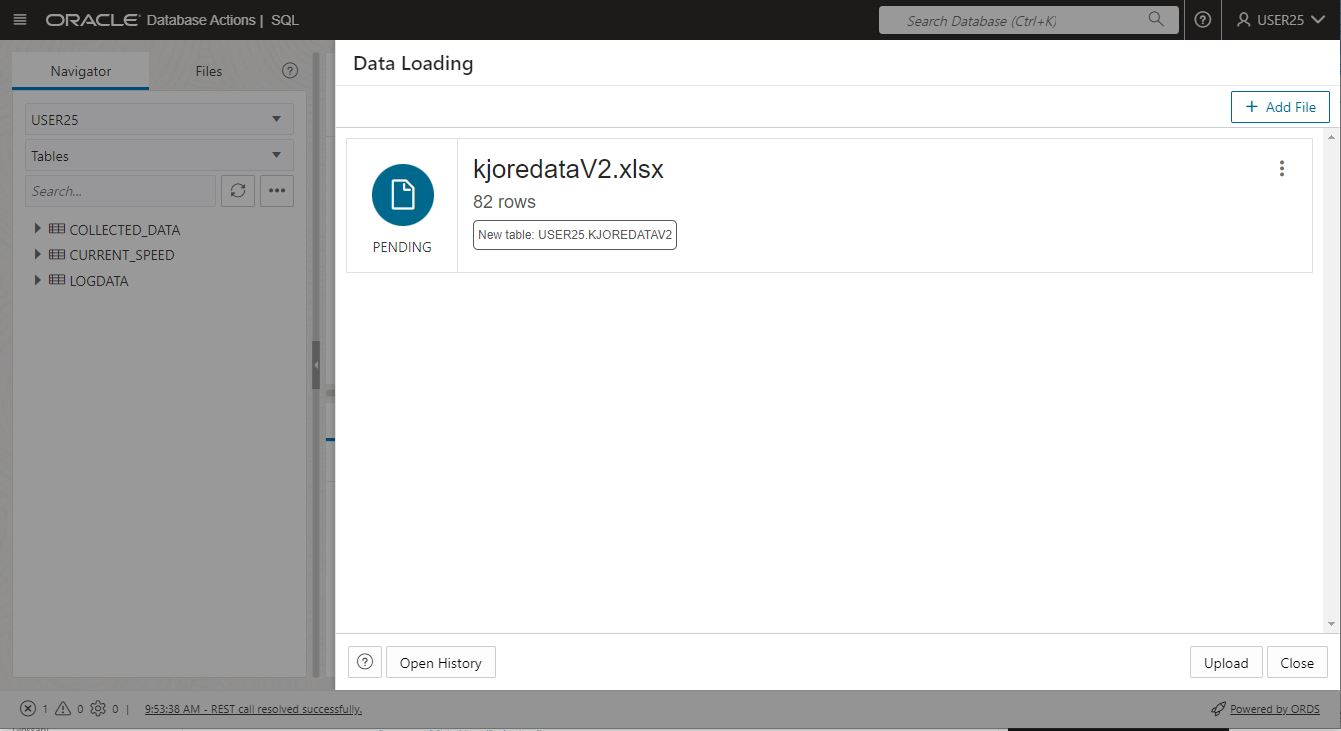
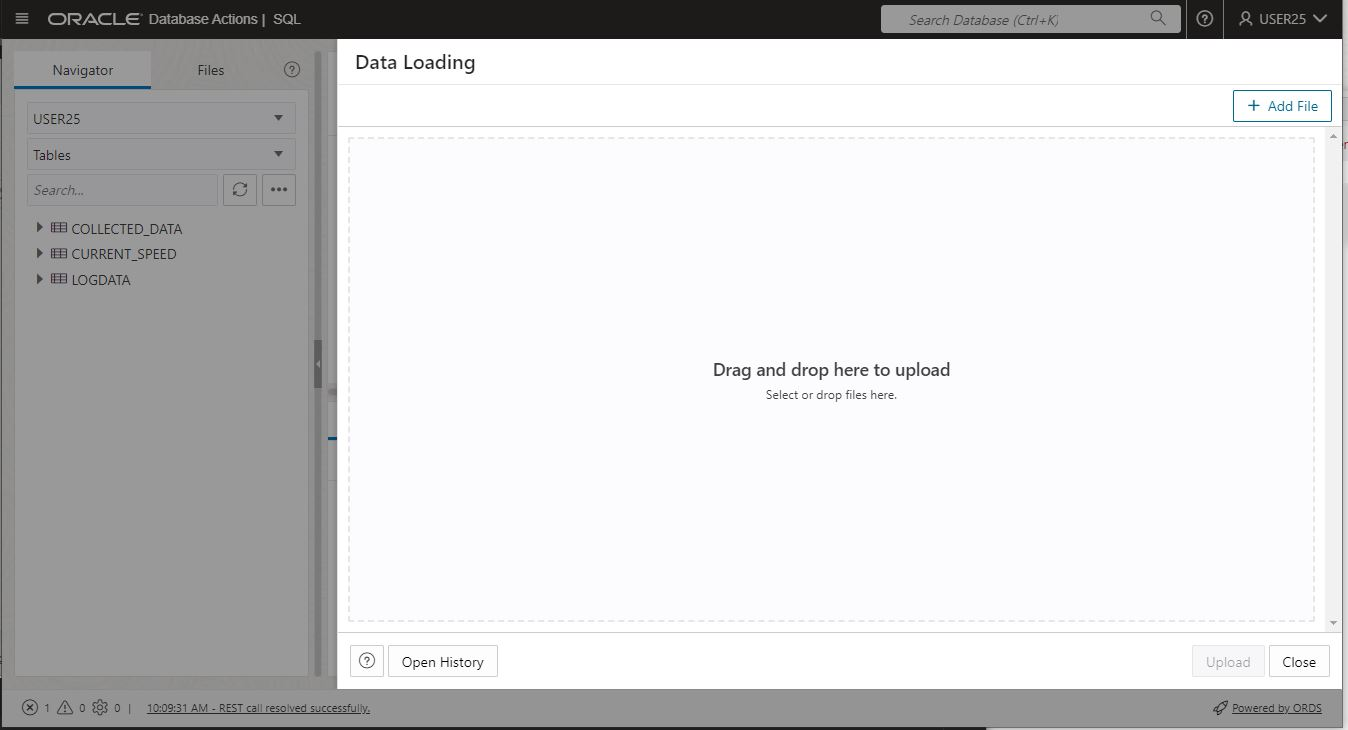
V6

diff --git a/README.md b/README.md
@@ -2,7 +2,7 @@
 Material for Cegal workshop 15.02.2024
   
 The aim for the workshop is to build a Mobile APEX application that consumes sensor data,
-and based on the sensor data applies Machine Learning to create a prediction
+and based on the sensor data applies Machine Learning to create a prediction.
   
 The prediction will be visualized in APEX
   
@@ -14,7 +14,7 @@ and display the predictions.
 As sample data we will use a set of data collected from a BMW EV from a trip from Oslo to Spain,
 that is uploaded into the Autonomous DB, and the appl Oracle DB built in machine learning, ML.
   
-For the lab you may either use a python script where the sensordata is manually entered, or use the micro python code from the device.
+For the lab you may either use a python script where the sensordata is manually entered or use the micro python code from the device.
   
 ### Workshop flow
 
@@ -35,14 +35,14 @@ Add REST services, for adding current speed and current temp, as basis for predi
 
 The following API will be added:  
 
-'''
+```
 POST /wsapi/tempkmh  
 POST /wsapi/temp  
 POST /wsapi/kmh  
 GET /wsapi/tempkmh
-'''
+```
 
-![Instructions](labs/lab1.md)
+![Instructions](labs/lab3.md)
 
 ## Workshop part 4
 

diff --git a/labs/lab4.md b/labs/lab4.md
@@ -2,9 +2,9 @@
 
 ## Purpose of lab
 
-The purpose of this lab is to update the logdata table eiter with an Arduino or with a python command-line script.
+The purpose of this lab is to update the logdata table either with an Arduino or with a python command-line script.
 
-The Python code demonstrates how to use the ORDS REST API for reading and updating tables/plsql in a autonomous database with REST  
+The Python code demonstrates how to use the ORDS REST API for reading and updating tables/plsql in an Autonomous database with REST.  
 
 ## Prerequsite
 
@@ -15,12 +15,12 @@ To run the commandline version you need requests and urllib3:
 'pip install requests
 'pip install urllib3
 
-The Arduino Lab require attaching the Arduino to you laptop for output from the USB port.
+The Arduino Lab require attaching the Arduino to your laptop for output from the USB port.
 One simple tool is Code with Mu  
 ![https://codewith.mu/](https://codewith.mu/)  
 
 
-## Commandline instructions
+## Command-line instructions
 
 The command-line Python script inserts into either the logdata or current_speed tables, or lists the last 25 records from logdata  
 Usage:  

diff --git a/labs/lab3.md b/labs/lab3.md
@@ -2,8 +2,8 @@
 
 ## Purpose of lab
 
-The prprose of this lab is to enable ORDS API.
-The lab will create the follwoing API
+The purprose of this lab is to enable ORDS API.
+The lab will create the following API:
 
 `POST /wsapi/tempkmh`    insert into logdata, payload: `'{kmh:<current speed>,"temp":<current temp>}'`
 `POST /wsapi/temp`    insert into logdata, payload: `'{"temp":<current temp>}'`, the API adds latest value from current_speed as defautl value for kmh
@@ -16,9 +16,9 @@ Complete lab 1
 
 ## Instructions
 
-The lab consist of two elements:
-- load the training data
-- build the ORDS environment
+The lab consists of two elements:
+- Load the training data
+- Build the ORDS environment
 
 
 ## Upload training data for machinelearning

diff --git a/labs/dataload.md b/labs/dataload.md
@@ -1,3 +1,35 @@
 # Lab 3 instructions, dataload
 
+Navigate to Database Actions and click on data load
+
+![DataLoad](images/dl1.jpg)
+
+Drag and drop kjoredataV2.xlsx into the file area
+
+![DataLoad](images/dl2.jpg)
+
+Click on upload
+
+![DataLoad](images/dl3.jpg)
+
+Accept defaults an click next
+
+![DataLoad](images/dl4.jpg)
+
+Change to load into existing table, corect date format
+
+![DataLoad](images/dl5.jpg)
+
+Run the upload
+
+![DataLoad](images/dl6.jpg)
+
+Upload completed without errors
+
+![DataLoad](images/dl7.jpg)
+
+Verify number of rows, 82 rows should be loaded
+
+![DataLoad](images/dl8.jpg)
+
 
